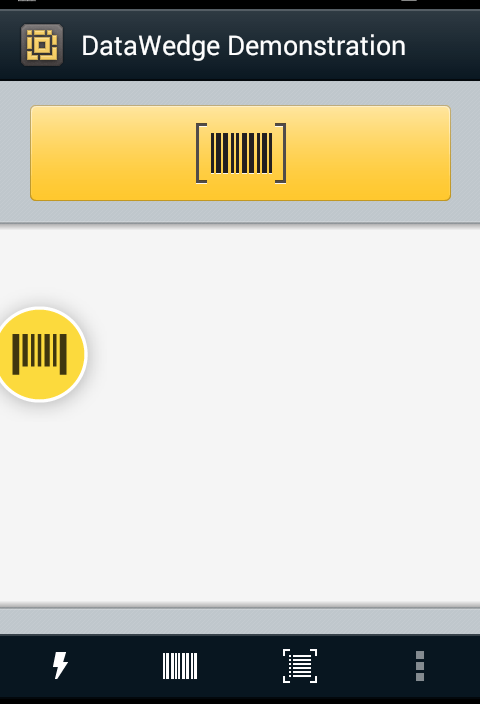
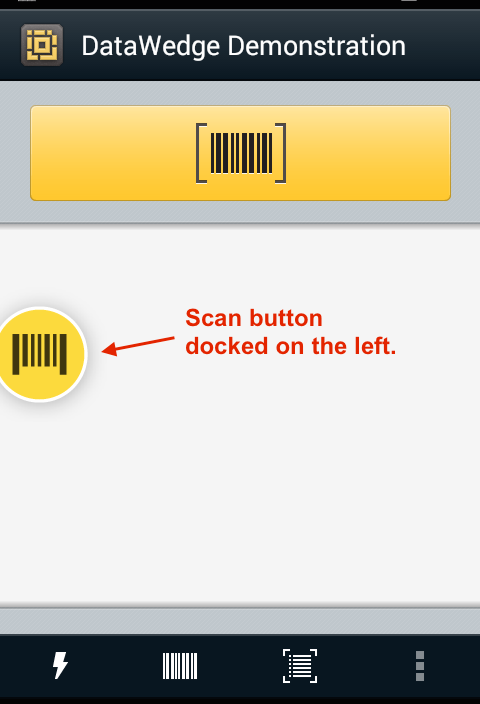
[TUT-17192] DW 6.3 MSR work; other suggested changes, tweaks

Changed region(s): [[0.2188, 0.4375, 0.8125, 0.5312]]

diff --git a/src/datawedge/6-31/guide/input/msr/index.md b/src/datawedge/6-31/guide/input/msr/index.md
@@ -6,34 +6,44 @@ productversion: '6.3'
 ---
 
 ## Overview
-**Magnetic Stripe Reader (MSR) Input** is used when acquiring data from a credit or debit card about the carrier's bank, credit agency or other financial institution. Zebra offers several device options for acquiring MSR data using DataWedge. 
+**Magnetic Stripe Reader (MSR) Input** is used when acquiring data from a credit or debit card about the carrier's bank, credit agency or other financial institution. Information is stored on "mag-stripe" cards in an open format using the ANSI x4.16 standard. Data is transferred to the device when the card is "swiped" through the MSR. DataWedge can acquire, process and output the data in its raw form or can encrypt it immediately upon acquisition, and keep secure it at all times thereafter. 
 
-Information is stored on "mag-stripe" cards in an open format using the ANSI x4.16 standard. Data is transferred by "swiping" the card through the MSR. DataWedge can acquire and output the raw data, or can encrypt the data once acquired to secure it at all times thereafter. Either way, **<u>DataWedge outputs MSR data only through intents</u>**, and offers a set of fixed data formatting options (shown in tables later in this guide). 
+Under the ANSI x4.16 standard, data is stored on the card in three tracks. Unencrypted data can be acquired from any of the individual tracks or from all three at once. The same is true for data encrypted using Zebra's Enhanced Mode encryption. Data encrypted using Zebra Original Mode can be acquired only all at once. 
 
-#### Devices With MSR Support
+<img style="height:350px" src="msr_encryption_modes.png"/>
+_The three modes of MSR card encoding, two of which include encryption_
+<br>
+<br>
 
-**TC70/TC75**:
-* **MSR snap-on module for TC7x devices** (part# MSR-TC7XSNP1-01) 
+#### Compatible Zebra Devices
+The following Zebra devices can use DataWedge to acquire MSR data: 
 
-**MC40**: 
-* **MC40 device with MSR and Wi-Fi** (model# MC40N0-SLK3RM1) 
-* **MC40 device with MSR and WLAN** (model# MC40N0-SCJ3R01)  
+* **MC40 with MSR** (model# [MC40N0-SLK3RM1](https://www.zebra.com/us/en/products/mobile-computers/handheld/mc40-mobile-computer-series.html)) 
+* **TC70/TC75** with MSR snap-on module (part# [MSR-TC7X-SNP1-01](https://www.zebra.com/us/en/products/accessories/mobile-computer/mobile-payment-device/magnetic-card-reader.html))
 
+See all [MC40 configuration options (.pdf)](https://www.zebra.com/content/dam/zebra_new_ia/en-us/solutions-verticals/product/Mobile_Computers/Hand-Held%20Computers/MC40%20Touch%20Computer/guide/MC40%20Configuration%20and%20Accessories%20Guide.pdf). 
+
+<!-- 
+MC40 model MC40N0-SCJ3R01 removed; not MSR-equipped.
+-->
 -----
 
-## Enable MSR Input
-To enable input from a mag-stripe reader, add check the "Enabled" box in the MSR Input section of the desired Profile(s):    
+## MSR Input
+
+**To enable DataWedge to accept MSR input**:
+
+Check the "Enabled" box in the MSR Input section of the desired Profile(s):    
 <img style="height:350px" src="msr_input.png"/>
 _MSR input enabled in the "DWDemo" Profile_
 <br>
 
-**DataWedge also provides beep sounds and other feedback to alert the device user of scanning results. See the [Scan Params](../barcode/#scanparams) section for more information**. 
+**Note**: DataWedge also provides beep sounds and other feedback to indicate scanning results. See the [Scan Params](../barcode/#scanparams) section for more information. 
 
 -----
 
 ## MSR Output
 
-Data acquired from an MSR is output as part of an intent bundle. It is therefore necessary for the receiving  application to contain code to accept the intent and process its data. 
+Whether open or encrypted, **<u>MSR data is output from DataWedge only through intents</u>**. It is therefore necessary for the receiving application to be capable of accepting and processing data from an intent bundle. It's also important to note that **DataWedge offers a set of fixed data formatting options for modifying and/or appending the acquired data** based on the encryption setting. Formatting options are shown in the sections below. 
 
 **To retrieve MSR data**: 
 
@@ -43,16 +53,20 @@ Data acquired from an MSR is output as part of an intent bundle. It is therefore
 Mag-stripe data is distributed across three tracks on the card and must be mapped to DataWedge tags according to the tables below. 
 
 ### Non-ISO Mode (no encryption)
-Non-ISO mode does not encrypt the data. For this mode, track data must be obtained from the `com.symbol.datawedge.msr_data` tag. Information for substring operations of this tag are shown below:
+
+Non-ISO mode does not encrypt the data and allows data to be obtained from any of the three tracks or from all three tracks at once, depending on the needs of the application. Tags for obtaining the data are shown below. 
+
+**Obtain MSR data from all three tracks**:
+
+* All MSR data - `com.symbol.datawedge.msr_data` (see Output Type table)
+
+**Obtain MSR data from individual tracks**: 
 
 * Track 1 status - `com.symbol.datawedge.msr_track1_status`
 * Track 2 status - `com.symbol.datawedge.msr_track2_status`
 * Track 3 status - `com.symbol.datawedge.msr_track3_status`
-* All MSR data - `com.symbol.datawedge.msr_data`
 
-MSR data is contained in the `com.symbol.datawedge.msr_data` tag as follows:
-
-### Non-ISO (raw) Data Output Type
+### Non-ISO Data Output Type
 <!--
 <p class="P7"> </p>
 -->
@@ -60,35 +74,40 @@ MSR data is contained in the `com.symbol.datawedge.msr_data` tag as follows:
 <tbody>
 <colgroup>
 <col width="125"/><col width="347"/><col width="249"/></colgroup>
-<tr class="Table71" bgcolor="#e0e0eb"><td style="text-align:left;width:1.125in; " class="Table7_A1"><p class="P22"><span class="T12">Field Number</span></p></td>
-<td style="text-align:left;width:3.125in; " class="Table7_A1"><p class="P22"><span class="T12">Field Description</span></p></td><td style="text-align:left;width:2.2431in; " class="Table7_A1"><p class="P22"><span class="T12">Notes</span></p></td></tr>
+<tr class="Table71" bgcolor="#e0e0eb"><td style="text-align:left;width:1.125in; " class="Table7_A1"><p class="P22"><span class="T12"><strong>Field Number</strong></span></p></td>
+<td style="text-align:left;width:3.125in; " class="Table7_A1"><p class="P22"><span class="T12"><strong>Field Description</strong></span></p></td><td style="text-align:left;width:2.2431in; " class="Table7_A1"><p class="P22"><span class="T12"><strong>Notes</strong></span></p></td>
+</tr>
 <tr class="Table72"><td style="text-align:left;width:1.125in; " class="Table7_A2"><p class="P22"><span class="T13">1</span></p></td><td style="text-align:left;width:3.125in; " class="Table7_B2"><p class="P23"><span class="T13">STX</span></p></td><td style="text-align:left;width:2.2431in; " class="Table7_C2"><p class="P26"> </p></td></tr>
-<tr class="Table72" bgcolor="#e0e0eb"><td style="text-align:left;width:1.125in; " class="Table7_A3"><p class="P22"><span class="T13">2</span></p></td><td style="text-align:left;width:3.125in; " class="Table7_B3"><p class="P23"><span class="T13">Length</span></p></td><td style="text-align:left;width:2.2431in; " class="Table7_C3"><p class="P26"> </p></td></tr>
-<tr class="Table72"><td style="text-align:left;width:1.125in; " class="Table7_A2"><p class="P22"><span class="T13">3</span></p></td><td style="text-align:left;width:3.125in; " class="Table7_B2"><p class="P23"><span class="T13">Card Encoding Type</span></p></td><td style="text-align:left;width:2.2431in; " class="Table7_C2"><p class="P26"> </p></td></tr>
-<tr class="Table72" bgcolor="#e0e0eb"><td style="text-align:left;width:1.125in; " class="Table7_A5"><p class="P22"><span class="T13">4</span></p></td><td style="text-align:left;width:3.125in; " class="Table7_B5"><p class="P23"><span class="T13">Track 1-3 Status</span></p></td><td style="text-align:left;width:2.2431in; " class="Table7_C5"><p class="P26"> </p></td></tr>
-<tr class="Table72"><td style="text-align:left;width:1.125in; " class="Table7_A2"><p class="P22"><span class="T13">5</span></p></td><td style="text-align:left;width:3.125in; " class="Table7_B2"><p class="P23"><span class="T13">Track 1 Unencrypted Length </span></p></td><td style="text-align:left;width:2.2431in; " class="Table7_C2"><p class="P23"><span class="T13">0 for no track 1 data present</span></p></td></tr>
-<tr class="Table72" bgcolor="#e0e0eb"><td style="text-align:left;width:1.125in; " class="Table7_A7"><p class="P22"><span class="T13">6</span></p></td><td style="text-align:left;width:3.125in; " class="Table7_B7"><p class="P23"><span class="T13">Track 2 Unencrypted Length </span></p></td><td style="text-align:left;width:2.2431in; " class="Table7_C7"><p class="P23"><span class="T13">0 for no track 1 data present</span></p></td></tr>
-<tr class="Table72"><td style="text-align:left;width:1.125in; " class="Table7_A2"><p class="P22"><span class="T13">7</span></p></td><td style="text-align:left;width:3.125in; " class="Table7_B2"><p class="P23"><span class="T13">Track 3 Unencrypted Length </span></p></td><td style="text-align:left;width:2.2431in; " class="Table7_C2"><p class="P23"><span class="T13">0 for no track 3 data present</span></p></td></tr>
-<tr class="Table72" bgcolor="#e0e0eb"><td style="text-align:left;width:1.125in; " class="Table7_A9"><p class="P22"><span class="T13">8</span></p></td><td style="text-align:left;width:3.125in; " class="Table7_B9"><p class="P23"><span class="T13">Track 1 Data </span></p></td><td style="text-align:left;width:2.2431in; " class="Table7_C9"><p class="P23"><span class="T13">if present</span></p></td></tr>
-<tr class="Table72"><td style="text-align:left;width:1.125in; " class="Table7_A2"><p class="P22"><span class="T13">9</span></p></td><td style="text-align:left;width:3.125in; " class="Table7_B2"><p class="P23"><span class="T13">Track 2 Data </span></p></td><td style="text-align:left;width:2.2431in; " class="Table7_C2"><p class="P23"><span class="T13">if present</span></p></td></tr>
-<tr class="Table72" bgcolor="#e0e0eb"><td style="text-align:left;width:1.125in; " class="Table7_A11"><p class="P22"><span class="T13">10</span></p></td><td style="text-align:left;width:3.125in; " class="Table7_B11"><p class="P23"><span class="T13">Track 3 Data </span></p></td><td style="text-align:left;width:2.2431in; " class="Table7_C11"><p class="P23"><span class="T13">if present</span></p></td></tr><tr class="Table72"><td style="text-align:left;width:1.125in; " class="Table7_A2"><p class="P22"><span class="T13">11</span></p></td><td style="text-align:left;width:3.125in; " class="Table7_B2"><p class="P23"><span class="T13">LRC </span></p></td><td style="text-align:left;width:2.2431in; " class="Table7_C2"><p class="P26"> </p></td></tr>
-<tr class="Table72" bgcolor="#e0e0eb"><td style="text-align:left;width:1.125in; " class="Table7_A13"><p class="P22"><span class="T13">12</span></p></td><td style="text-align:left;width:3.125in; " class="Table7_B13"><p class="P23"><span class="T13">Checksum</span></p></td><td style="text-align:left;width:2.2431in; " class="Table7_C13"><p class="P26"> </p></td></tr>
+<tr class="Table72" bgcolor="#e0e0eb"><td style="text-align:left;width:1.125in; " class="Table7_A3"><p class="P22"><span class="T13">2</span></p></td><td style="text-align:left;width:3.125in; " class="Table7_B3"><p class="P23"><span class="T13">Length</span></p></td><td style="text-align:left;width:2.2431in; " class="Table7_C3"><p class="P26"> </p></td>
+</tr>
+<tr class="Table72"><td style="text-align:left;width:1.125in; " class="Table7_A2"><p class="P22"><span class="T13">3</span></p></td><td style="text-align:left;width:3.125in; " class="Table7_B2"><p class="P23"><span class="T13">Card Encoding Type</span></p></td><td style="text-align:left;width:2.2431in; " class="Table7_C2"><p class="P26"> </p></td>
+</tr>
+<tr class="Table72" bgcolor="#e0e0eb"><td style="text-align:left;width:1.125in; " class="Table7_A5"><p class="P22"><span class="T13">4</span></p></td><td style="text-align:left;width:3.125in; " class="Table7_B5"><p class="P23"><span class="T13">Track 1-3 Status</span></p></td><td style="text-align:left;width:2.2431in; " class="Table7_C5"><p class="P26"> </p></td>
+</tr>
+<tr class="Table72"><td style="text-align:left;width:1.125in; " class="Table7_A2"><p class="P22"><span class="T13">5</span></p></td><td style="text-align:left;width:3.125in; " class="Table7_B2"><p class="P23"><span class="T13">Track 1 Unencrypted Length </span></p></td><td style="text-align:left;width:2.2431in; " class="Table7_C2"><p class="P23"><span class="T13">0 = "No track 1 data present"</span></p></td>
+</tr>
+<tr class="Table72" bgcolor="#e0e0eb"><td style="text-align:left;width:1.125in; " class="Table7_A7"><p class="P22"><span class="T13">6</span></p></td><td style="text-align:left;width:3.125in; " class="Table7_B7"><p class="P23"><span class="T13">Track 2 Unencrypted Length </span></p></td><td style="text-align:left;width:2.2431in; " class="Table7_C7"><p class="P23"><span class="T13">0 = "No track 2 data present"</span></p></td>
+</tr>
+<tr class="Table72"><td style="text-align:left;width:1.125in; " class="Table7_A2"><p class="P22"><span class="T13">7</span></p></td><td style="text-align:left;width:3.125in; " class="Table7_B2"><p class="P23"><span class="T13">Track 3 Unencrypted Length </span></p></td><td style="text-align:left;width:2.2431in; " class="Table7_C2"><p class="P23"><span class="T13">0 = "No track 3 data present"</span></p></td>
+</tr>
+<tr class="Table72" bgcolor="#e0e0eb"><td style="text-align:left;width:1.125in; " class="Table7_A9"><p class="P22"><span class="T13">8</span></p></td><td style="text-align:left;width:3.125in; " class="Table7_B9"><p class="P23"><span class="T13">Track 1 Data </span></p></td><td style="text-align:left;width:2.2431in; " class="Table7_C9"><p class="P23"><span class="T13">(if present)</span></p></td>
+</tr>
+<tr class="Table72"><td style="text-align:left;width:1.125in; " class="Table7_A2"><p class="P22"><span class="T13">9</span></p></td><td style="text-align:left;width:3.125in; " class="Table7_B2"><p class="P23"><span class="T13">Track 2 Data </span></p></td><td style="text-align:left;width:2.2431in; " class="Table7_C2"><p class="P23"><span class="T13">(if present)</span></p></td>
+</tr>
+<tr class="Table72" bgcolor="#e0e0eb"><td style="text-align:left;width:1.125in; " class="Table7_A11"><p class="P22"><span class="T13">10</span></p></td><td style="text-align:left;width:3.125in; " class="Table7_B11"><p class="P23"><span class="T13">Track 3 Data </span></p></td><td style="text-align:left;width:2.2431in; " class="Table7_C11"><p class="P23"><span class="T13">(if present)</span></p></td>
+</tr>
+<tr class="Table72"><td style="text-align:left;width:1.125in; " class="Table7_A2"><p class="P22"><span class="T13">11</span></p></td><td style="text-align:left;width:3.125in; " class="Table7_B2"><p class="P23"><span class="T13">LRC </span></p></td><td style="text-align:left;width:2.2431in; " class="Table7_C2"><p class="P26"> </p></td>
+</tr>
+<tr class="Table72" bgcolor="#e0e0eb"><td style="text-align:left;width:1.125in; " class="Table7_A13"><p class="P22"><span class="T13">12</span></p></td><td style="text-align:left;width:3.125in; " class="Table7_B13"><p class="P23"><span class="T13">Checksum</span></p></td><td style="text-align:left;width:2.2431in; " class="Table7_C13"><p class="P26"> </p></td>
+</tr>
 <tr class="Table72"><td style="text-align:left;width:1.125in; " class="Table7_A2"><p class="P22"><span class="T13">13</span></p></td><td style="text-align:left;width:3.125in; " class="Table7_B2"><p class="P23"><span class="T13">ETX</span></p></td>
-<tr class="Table72" bgcolor="#e0e0eb"><td style="text-align:left;width:1.125in; " class="Table7_A13"><p class="P22"><span class="T13"></span></p></td><td style="text-align:left;width:3.125in; " class="Table7_B13"><p class="P23"><span class="T13"></span></p></td><td style="text-align:left;width:2.2431in; " class="Table7_C13"><p class="P26"> </p></td></tr>
+<tr class="Table72" bgcolor="#e0e0eb"><td style="text-align:left;width:1.125in; " class="Table7_A13"><p class="P22"><span class="T13"></span></p></td><td style="text-align:left;width:3.125in; " class="Table7_B13"><p class="P23"><span class="T13"></span></p></td><td style="text-align:left;width:2.2431in; " class="Table7_C13"><p class="P26"> </p></td>
+</tr>
 </tbody>
 </table>
 
 
-
-The call above is used with the following string tags:
-
-
-
-
-
-
-
-
+<!--
 OLD INFO (incorrect and incomplete, per weissman)
 * **String MSR_DATA_TAG = "com.symbol.datawedge.msr_data"**;
 The data from the MSR tracks is concatenated and sent out as a byte array. The Start/end sentinels and track separators are included as configured.
@@ -104,17 +123,12 @@ The data from the MSR tracks is concatenated and sent out as a byte array. The S
 * **String MSR_TRACK2_STATUS_TAG = "com.symbol.datawedge.msr_track2_status"**; MSR track 2 decode status as an Integer where 0 indicates a successful decode.
 
 * **String MSR_TRACK3_STATUS_TAG = "com.symbol.datawedge.msr_track3_status"**; MSR track 3 decode status as an Integer where 0 indicates a successful decode.
+-->
 
 -----
 
 **Related guides**:
 
-* Processing 
- * [Advanced Data Formatting](../../process/adf)
- * [Basic Data Formatting](../../process/bdf) 
-* Output
- * [Intent](../../output/intent) 
- * [Keystrokes](../../output/keystroke)
 * [Profiles](../../profiles)
 * [DataWedge APIs](../../api) 
 

diff --git a/src/datawedge/6-31/guide/input/dcp/index.md b/src/datawedge/6-31/guide/input/dcp/index.md
@@ -1,14 +1,14 @@
 ---
-title: DCP Input Plug-in
+title: DCP Input
 layout: guide.html
 product: DataWedge
 productversion: '6.3'
 ---
 
 ## Overview
-Data Capture Plus (formerly known as the "Data Capture Panel") enables areas of the device screen to be designated as scan triggers. By tapping on a designated screen area, DataWedge will respond as it would to a scanner button-press or other hardware trigger.
+Data Capture Plus (formerly known as the "Data Capture Panel") enables areas of the device screen to be designated as scan triggers. By tapping on such a screen area, DataWedge will respond as it would to a scanner button-press or other hardware trigger. DCP is disabled by default. 
 
-DCP is disabled by default. The DataWedge profile configuration screen allows an app user to configure the appearance of DCP on the screen after a particular Profile is loaded. If the user checks the option to enable the DCP, the five parameters shown below appear on the preference screen and can be configured as desired.
+The DataWedge profile configuration screen allows an app user to configure the appearance of DCP on the screen after a particular Profile is loaded. If the user checks the option to enable the DCP, the five parameters shown below appear on the preference screen and can be configured as desired.
 
 **Note: The DCP will not appear if the scanner is disabled in the current Profile**.
 
@@ -16,37 +16,52 @@ DCP is disabled by default. The DataWedge profile configuration screen allows an
 _Data Capture Plus options for setting scan triggers_ 
 <br>
 
-Data Capture Plus offers these configurable parameters:
+-----
 
-**Dock button on -** Sets the initial docking location of the floating DCP button. Changes by the user at runtime are saved to the active Profile. Docking options:  
+### Dock button on
+Sets the initial docking location of the floating DCP button. Changes by the user at runtime are saved to the active Profile. 
+
+**Docking options**:
+
 * Right side only
 * Left side only
 * Either side
 
-**Start in -** Sets the mode that DCP will startup with. If configured to launch as a button, the DCP mode can be changed at runtime by dragging, but the launch state will not be changed in the Profile. Start-in options: 
-* Button mode (floating button)
-* Full-screen mode
-* Button-only mode
-
-**Button highest position -** Sets a ceiling for button position expressed as a percent of screen height. For example, on a screen measuring four inches vertically, a setting of 75 (%) would prevent the upper edge of the DCP button from being positioned less than one inch from the top of the screen. 
-
-**Bottom lowest position -** Sets a floor for button position expressed as a percent of screen height. For example, on a screen measuring four inches vertically, a setting of 25 (%) would prevent the lower edge of the DCP button from being positioned less than one inch from the bottom of the screen.
-
-**Drag Detect Time -** The wait time (in ms) that DCP should wait after a screen tap before triggering a scanner action. This can help prevent accidental triggers when dragging the DCP button to a new location.
-
-**Note**: A quick touch and release of the DCP can sometimes start the viewfinder when using camera as a scanner. To exit, press the back button.
 
 <img style="height:350px" src="../dcp_minimized.png"/>
 _Data Capture Plus shown in minimized mode_ 
 <br>
 
-**Note**: If configured to launch as a button, the DCP mode can be changed at runtime by dragging, but the launch state will not be changed in the Profile. However, runtime changes to the vertical position and the docking side of device screen _**will**_ be saved to the active Profile.
+### Start in
+Sets the mode that DCP will startup with. If configured to launch as a button, the DCP mode can be changed at runtime by dragging, but the launch state will not be changed in the Profile. 
+
+**Start-in options**: 
+
+* Button mode (floating button)
+* Full-screen mode
+* Button-only mode
 
 <img style="height:350px" src="../dcp_maximized.png"/>
 _Data Capture Plus shown in maximized mode_ 
 <br>
 
-### Scanning with DCP
+### Button highest position 
+Sets a ceiling for button position expressed as a percentage of total screen height. For example, on a screen measuring four inches vertically, a setting of 75 (%) would prevent the upper edge of the DCP button from being positioned less than one inch from the top of the screen. 
+
+### Bottom lowest position
+Sets a floor for button position expressed as a percentage of total screen height. For example, on a screen measuring four inches vertically, a setting of 25 (%) would prevent the lower edge of the DCP button from being positioned less than one inch from the bottom of the screen.
+
+### Drag Detect Time
+The wait time (in ms) that DCP should wait after a screen tap before triggering a scanner action. This can help prevent accidental triggers when dragging the DCP button to a new location.
+
+**Note**: A quick touch and release of the DCP can sometimes start the viewfinder when using camera as a scanner. To exit, press the back button.
+
+
+**Note**: If configured to launch as a button, the DCP mode can be changed at runtime by dragging, but the launch state will not be changed in the Profile. However, runtime changes to the vertical position and the docking side of device screen _**will**_ be saved to the active Profile.
+
+-----
+
+## Scanning with DCP
 
 **To scan a barcode with DCP**: 
 

diff --git a/src/datawedge/6-31/guide/overview/index.md b/src/datawedge/6-31/guide/overview/index.md
@@ -47,32 +47,6 @@ Plug-ins extend DataWedge functionality to support device hardware, peripherals,
 
 -----
 
-## Create a Profile
-The basic steps for creating a Profile and associating it with an app on the device are shown below. For most scenarios, a version of this process must be used for every app that will call on DataWedge for scanning services. For a detailed look at this process, see the [Create a Profile](../createprofile) page.  
-
-**To enable DataWedge scanning services for an app**:
-
-1. **Install the app** that will use DataWedge for scanning. 
-2. **Start DataWedge** app and navigate to the Profiles list (if not shown by default).  
-3. Tap on the Profiles screen's "hamburger" menu and **select -> New profile**. 
-4. **Enter a name for the Profile and tap OK**. The new Profile appears in the Profiles list. 
-5. Tap on the new profile.
-6. **Select Associated Apps** from the Applications section.
-7. In the Hamburger menu, **select -> New app/activity**. A list of installed apps appears. 
-8. Select your app's package name (scrolling down, if necessary).
-9. **Tap the asterisk** (*) to associate all of your app's activities with DataWedge. 
-10. Tap the device's Back button until the new Profile's Settings screen appears.
-11. Confirm that the "Profile enabled" checkbox is checked. 
-12. As needed, **confirm that the Barcode Input and Keystroke Output checkboxes are checked**. 
-
-Test and adjust input, processing (data formatting) and output parameters as necessary. 
-
-The app will now use DataWedge to acquire barcode data. 
-
-For a detailed look at this process, see the [Create a Profile](../createprofile) page.  
-
------
-
 **Related Guides**: 
 
 * **[Profile Architecture Overview](../overview) -** explains how DataWedge uses Profiles and Plug-ins

diff --git a/src/datawedge/6-31/guide/output/intent/index.md b/src/datawedge/6-31/guide/output/intent/index.md
@@ -26,9 +26,11 @@ DataWedge invokes an intent though an **Intent action** in an **Intent category*
 
 ...the **Intent action** in the Intent is `com.myapp.action` and the **Intent category** is `android.intent.category.DEFAULT`.
 
-**Once these values are known**: 
+When combined, these two values can be like a "channel" to which an app can listen for intents that use the same combination, filtering out the "noise" from other intents that use different value pairs. 
 
-&#49;. Locate the IP Output section of the Profile being configured.
+**Once these values are known, set DataWedge intent output to match**: 
+
+&#49;. Locate the Intent Output section of the Profile being configured.
 
 &#50;. **Check "Enabled" box** to activate intent output:  
 <img style="height:350px" src="../intent_output 2.png"/>
@@ -38,7 +40,9 @@ _Intent Output options_
 &#51;. **Specify action, category and delivery** as described below: 
 
 **Intent action -** specifies the action to handle the intent 
+
 **Intent category -** specifies the category of intent to be handled 
+
 **Intent delivery -** used to select one of three delivery methods for intent-based data:
 * **Send via startActivity** 
 * **Send via startService** 

diff --git a/src/datawedge/6-31/guide/setup/index.md b/src/datawedge/6-31/guide/setup/index.md
@@ -25,8 +25,8 @@ When associated with an app, DataWedge can be invoked to scan and acquire the da
 
 -----
 
-## Create a Profile
-The basic steps for creating a Profile and associating it with an app on the device are shown below. For most scenarios, a version of this process must be used for every app that will call on DataWedge for scanning services. For a detailed look at this process, see the [Create a Profile](../createprofile) page.  
+## Getting Started
+The basic steps for creating a Profile and associating it with an app on the device are shown below. For most scenarios, a version of this process must be used for every app that will call on DataWedge for scanning services. For a detailed look at this process, see the [Managing Profiles](../createprofile) page.  
 
 **To enable DataWedge scanning services for an app**:
 

diff --git a/src/datawedge/6-31/guide/input/barcode/index.md b/src/datawedge/6-31/guide/input/barcode/index.md
@@ -782,6 +782,13 @@ Scan Parameters allow for configuration of Code ID and scanner-specific decoding
 
 **Related guides**:
 
+* Processing 
+ * [Advanced Data Formatting](../../process/adf)
+ * [Basic Data Formatting](../../process/bdf) 
+* Output
+ * [Intent](../../output/intent) 
+ * [Keystrokes](../../output/keystroke)
+
 * [Profiles/Plug-ins](../../profiles)
 * [DataWedge APIs](../../api) 
 

diff --git a/src/datawedge/6-31/guide/profiles/index.md b/src/datawedge/6-31/guide/profiles/index.md
@@ -8,7 +8,7 @@ automenu:
       items:
         - title: Architecture Overview
           url: ../overview
-        - title: Create a Profile
+        - title: Managing Profiles
           url: ../createprofile
     - title: Input
       items:
